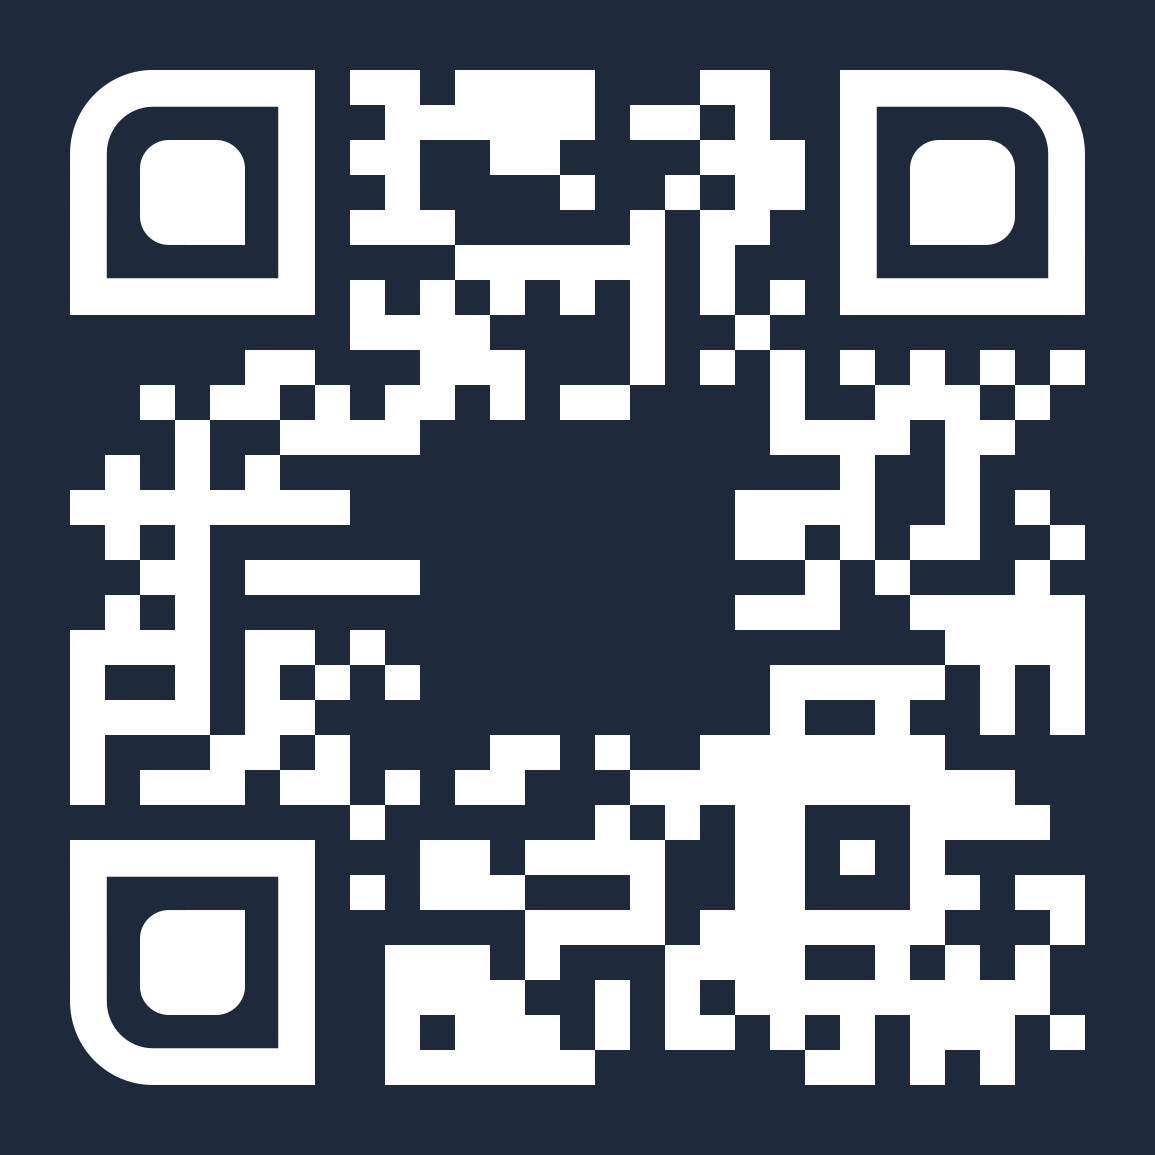
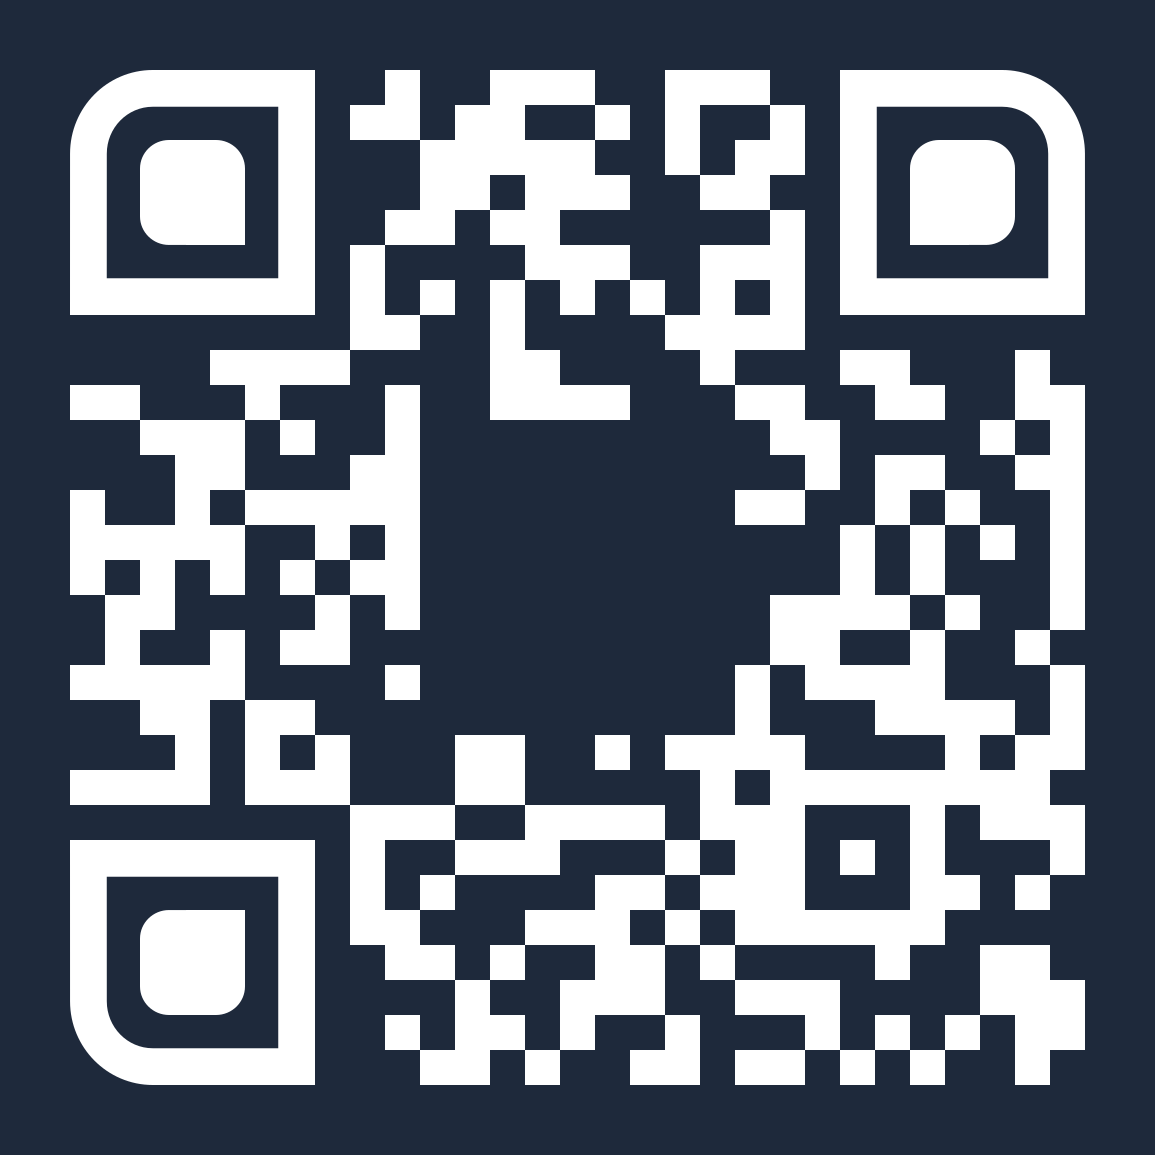
Working Qr final

Changed region(s): [[0.2805, 0.2805, 0.9662, 0.9662], [0.0623, 0.0623, 0.7169, 0.7169]]

diff --git a/src/app/app.component.html b/src/app/app.component.html
@@ -1,5 +1,7 @@
-<div class="flex flex-col justify-center items-center h-screen text-white bg-slate-900 p-5 ">
-  <p class="text-[5rem] font-bold hidden sm:block">Scan Here </p>
+<div
+  class="flex flex-col justify-center items-center h-screen text-white bg-slate-900 p-5"
+>
+  <p class="text-[5rem] font-bold hidden sm:block">Scan Here</p>
   <div class="max-w-2xl w-full">
     <img
       class="rounded-3xl h-auto w-full object-contain"
@@ -8,7 +10,7 @@
     />
   </div>
   <!-- https://deliver-ease-app.vercel.app/ -->
-  <a href="https://deliver-ease-app.vercel.app/app-release.apk" download>
+  <a href="/app-release.apk" download>
     <p class="text-xl pt-5 underline">Click to download</p>
   </a>
 </div>
